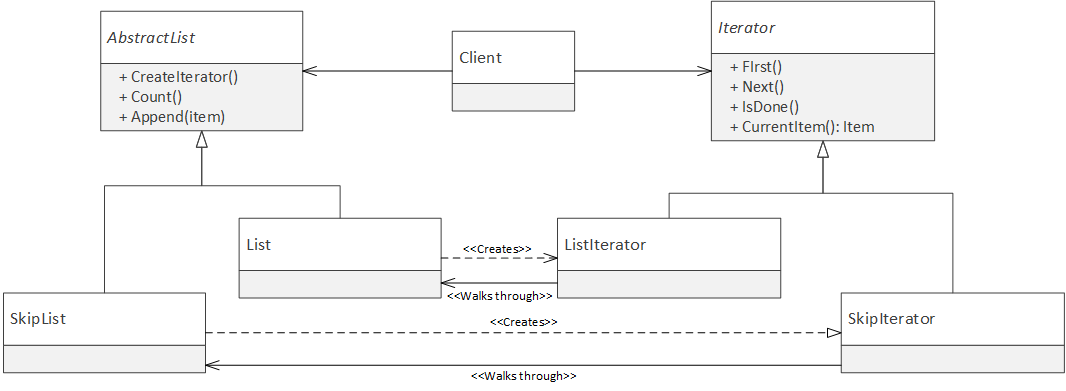
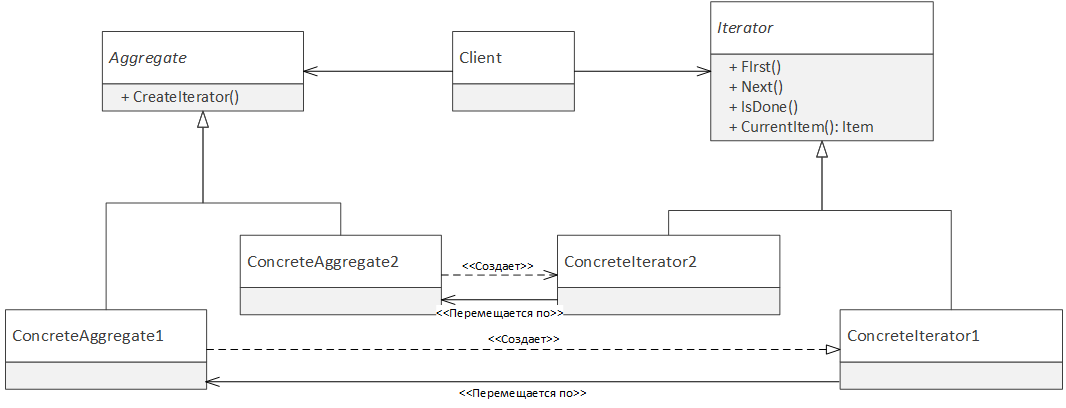
Поправил рисунок, перенес диаграмму в начало главы.

diff --git a/Part 1 - Behavioral Patterns/4 - Итератор.md b/Part 1 - Behavioral Patterns/4 - Итератор.md
@@ -1,10 +1,8 @@
-# Итератор
+# Паттерн Итератор
 
 TODO: на подумать. Глава получилась довольно .NET-ориентированной! Это намеренно, но у меня нет уверенности в том, что столько букав того стоят!
 
 **Назначение** : представляет доступ ко всем элементам составного объекта, не раскрывая его внутреннего представления.
-
-**Подробнее** – [Iterator on Wiki](http://en.wikipedia.org/wiki/Iterator_pattern)
 
 ## Мотивация
 
@@ -41,7 +39,7 @@ public class LogFileSource : IEnumerable<LogEntry>
 }
 ```
 
-## Обсуждение
+## Классическая диаграмма классов паттерна Итератор
 
 Паттерн Итератор – это один из немногих паттернов, который пришел в .NET Framework из книги банды четырех практически в неизменном виде. Если взять исходную диаграмму классов из книги "Design Patterns", заменить `Aggregate` на `IEnumerable<T>`, `Iterator` на `IEnumerator<T>` и немного изменить методы класса `Iterator`, то мы получим очень похожую картину:
 
@@ -50,6 +48,14 @@ public class LogFileSource : IEnumerable<LogEntry>
 
 ![Рисунок 4.1](https://github.com/SergeyTeplyakov/DesignPatternsBook/raw/master/Part%201%20-%20Behavioral%20Patterns/Images/ch04_Image2.png)
 Рисунок 4.2 – Паттерн Итератор в .NET Framework
+
+**Участники**
+* `Iterator` (`IEnumerator<T>`) определяет интерфейс итератора.
+* `Aggregate` (`IEnumerable<T>`) составной объект, по которому может перемещаться итератор.
+* `ConcreteAggregate1` (`List<T>`) конкретная реализация агрегата.
+* `ConcreteIterator` (`List.Enumerator<T>`) конкретная реализация итератора для определенного агрегата.
+
+## Обсуждение
 
 Итераторы в .NET являются *однонаправленными итераторами только для чтения*. При этом для получения итератора используется метод `GetEnumerator` интерфейса `IEnumerable`, который каждый раз возвращает новый экземпляр итератора.
 
